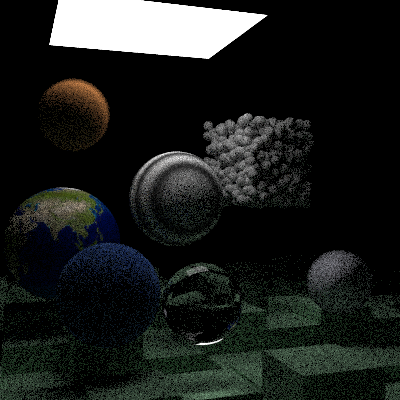
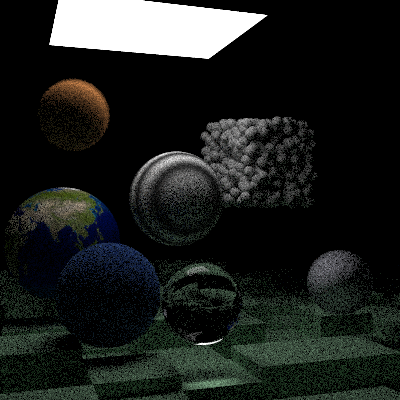
Multithreaded

Changed region(s): [[0.0, 0.27, 1.0, 1.0], [0.09, 0.18, 0.27, 0.36]]

diff --git a/src/camera.rs b/src/camera.rs
@@ -3,7 +3,7 @@ use std::f64::consts::PI;
 use rand::{thread_rng, Rng};
 use rand::rngs::ThreadRng;
 use image::{RgbImage};
-
+use rayon::iter::{IntoParallelRefMutIterator, IndexedParallelIterator, ParallelIterator};
 use crate::colour::{attenuate, write_colour, Colour};
 use crate::hittables::{Hittable, BVH};
 use crate::interval::Interval;
@@ -83,24 +83,36 @@ impl Camera {
 
     pub fn render(&self, image_file : &str, world : &BVH)
     {
-        let mut rng = thread_rng();
-        let pixel_colour_scale = 1.0 / self.samples_per_pixel as f64;
         let mut image = RgbImage::new(self.image_width, self.image_height);
         // Render
         for j in 0..self.image_height {
             print!("\rScanlines remaining: {}       \n", self.image_height - j);
-            for i in 0..self.image_width {
-                let mut pixel_colour = Colour::zero();
-                for _ in 0..self.samples_per_pixel {
-                    let ray = self.ray(&mut rng, i, j);
-                    pixel_colour += self.ray_colour(&mut rng, world, &ray, self.max_depth);
-                }
-                pixel_colour *= pixel_colour_scale;
-                write_colour(&mut image, i, j, &pixel_colour);
+            let row = self.row(j, world);
+            for (i, colour) in row.iter().enumerate() {
+                write_colour(&mut image, i as u32, j, colour);
             }
         }
         image.save(image_file).expect("Unable to write image");
         print!("\rDONE                      ");
+    }
+
+    fn row(&self, j : u32, world : &BVH) -> Vec<Colour> {
+        let mut row = vec![Colour::zero(); self.image_width as usize];
+        row.par_iter_mut().enumerate().for_each(
+            |(i,colour)| *colour = self.pixel(i as u32, j, world)
+        );
+        row
+    }
+
+    fn pixel(&self, i : u32, j : u32, world : &BVH) -> Colour {
+        let mut rng = thread_rng();
+        let mut pixel_colour = Colour::zero();
+        for _ in 0..self.samples_per_pixel {
+            let ray = self.ray(&mut rng, i, j);
+            pixel_colour += self.ray_colour(&mut rng, world, &ray, self.max_depth);
+        }
+        pixel_colour /= self.samples_per_pixel as f64;
+        pixel_colour
     }
 
     fn ray<R>(&self, rng : &mut R, i : u32, j : u32) -> Ray

diff --git a/src/materials.rs b/src/materials.rs
@@ -6,7 +6,7 @@ use crate::ray::Ray;
 use crate::textures::Texture;
 use crate::vec3::{dot, random_unit, reflect, refract, Point3};
 
-pub trait Material {
+pub trait Material : Sync {
     fn scatter(&self, rng : &mut ThreadRng, ray_in : &Ray, hit_record: &HitRecord) -> Option<(Colour, Ray)>;
 
     fn emitted(&self, _u : f64, _v : f64, _point : &Point3) -> Colour {

diff --git a/src/hittables.rs b/src/hittables.rs
@@ -19,7 +19,7 @@ pub struct HitRecord<'mat> {
     pub front_face : bool,
     pub material : &'mat dyn Material
 }
-pub trait Hittable {
+pub trait Hittable: Sync {
     fn hit(&self, ray : &Ray, ray_t : &Interval, rng : &mut ThreadRng) -> Option<HitRecord>;
     fn bounding_box(&self) -> AABB;
 }

diff --git a/src/textures.rs b/src/textures.rs
@@ -7,7 +7,7 @@ use crate::interval::Interval;
 use crate::perlin::Perlin;
 use crate::vec3::Point3;
 
-pub trait Texture {
+pub trait Texture : Sync {
     fn value(&self, u : f64, v : f64, point : &Point3) -> Colour;
 }
 
